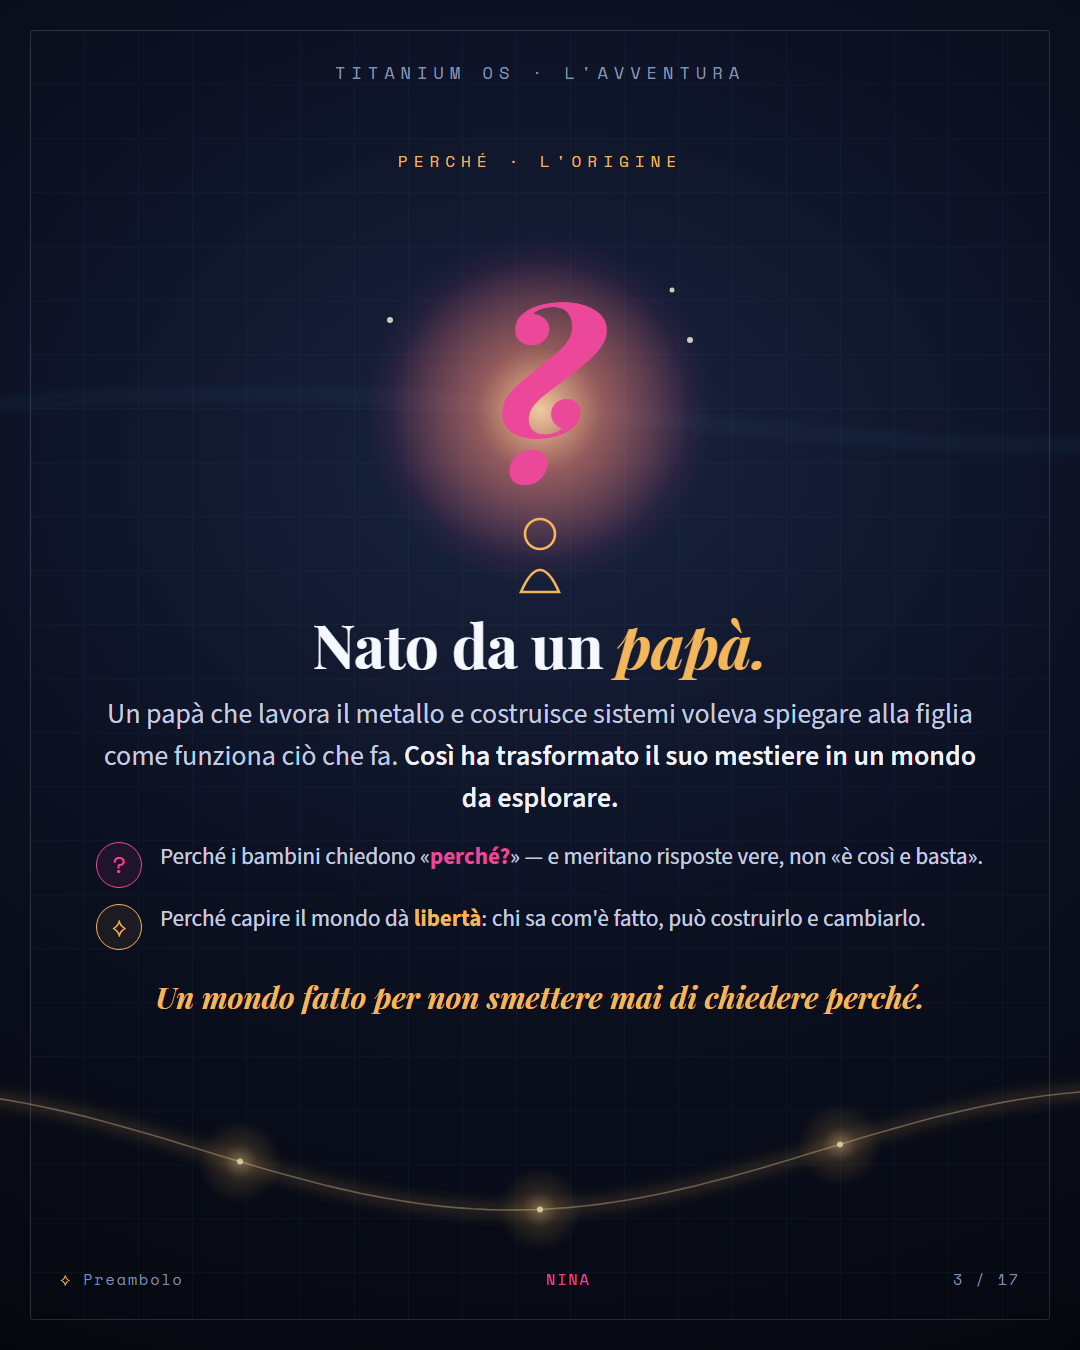
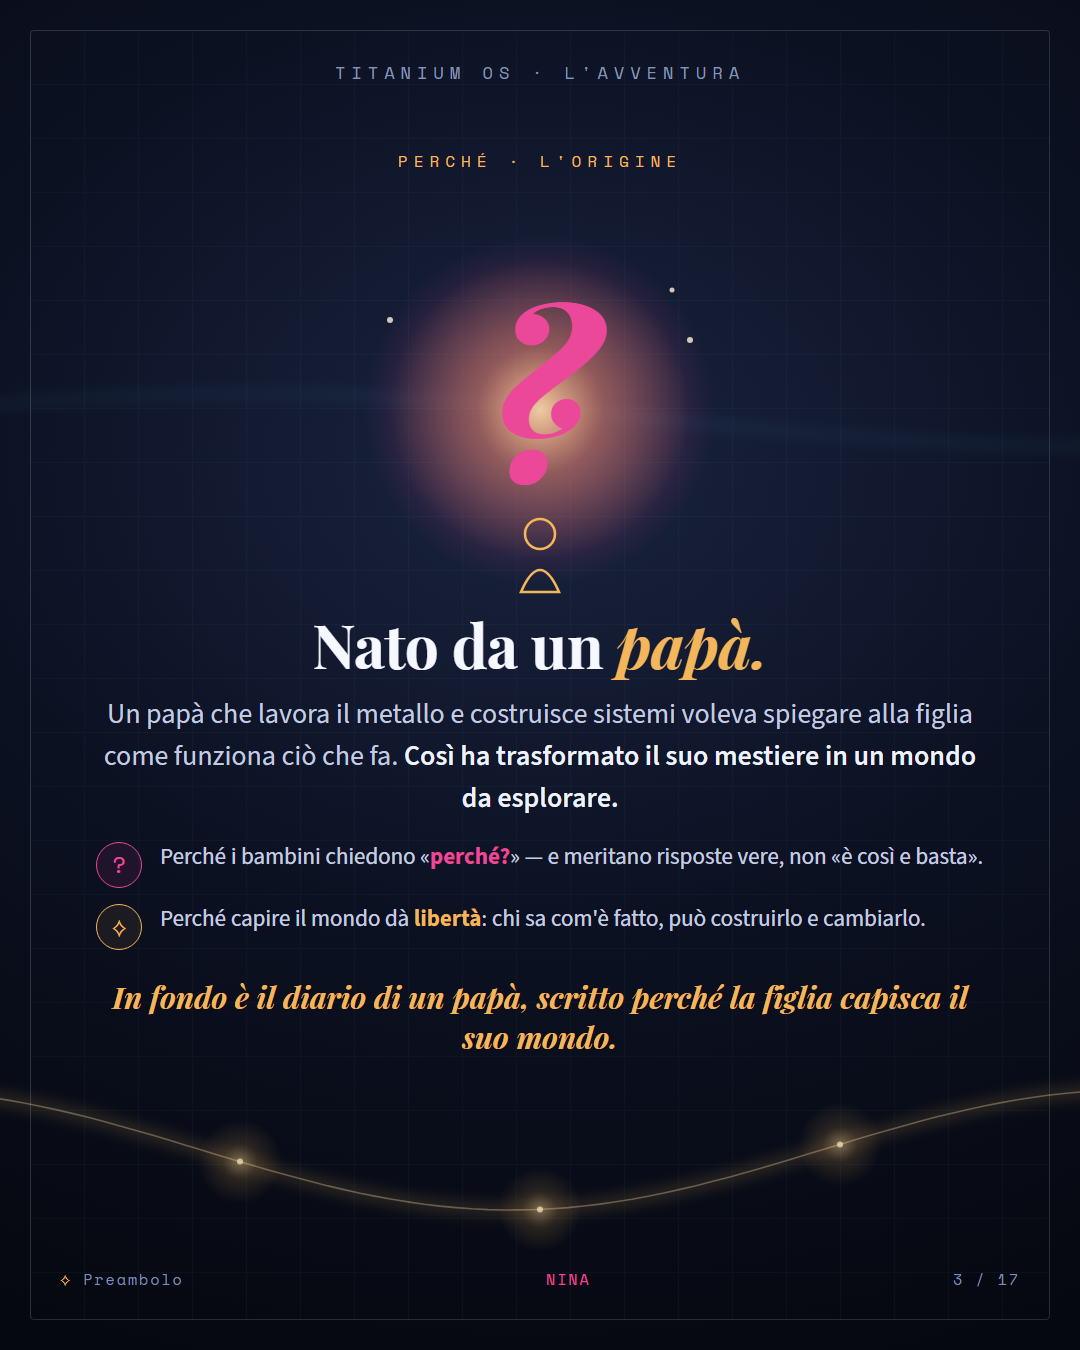
feat(nina): PRE_01 v11 — preambolo allineato alla visione (Mappa Viva, tre fondi, libro vivo, diario)
Slide 11->Mappa Viva (non-lineare/cresce), 13->I tre fondi (fiaba/bottega/vero
= test della sarta), 14->Un libro vivo (cresce da solo), 3->diario-eredita.
HR/commerciale tenuto fuori dal preambolo bimbi (deck strategico).

Changed region(s): [[0.0917, 0.7156, 0.9167, 0.7778]]

diff --git a/CONTENT_ENGINE/DATABASE/MONDO/POSTER/CAROSELLI/PRE_01/_VERSIONI/INDEX.md b/CONTENT_ENGINE/DATABASE/MONDO/POSTER/CAROSELLI/PRE_01/_VERSIONI/INDEX.md
@@ -24,7 +24,8 @@
 | **v7_arricchito-testo** | v6 con **più testo** (intro 2 frasi, punti più pieni, sigilli più evocativi) | onda sfumata su 1-8 | superata da v9/v10 |
 | **v8_fumetto-vignette** | tentativo layout a **vignette/caselle** (stile fumetto) su slide 2 | onda sfumata | **scartata** (Matteo: "no per nulla") |
 | **v9_progetto-12slide** | preambolo **rivisto a 12 slide** che spiega il progetto (Cos'è/Perché/Come funziona/Da dove nasce) | onda sfumata su 1-12 | superata da v10 |
-| **v10_progetto-17slide** | v9 esteso a **17 slide**, linguaggio semplice (+Per chi è, I 4 simboli, Cosa imparerai, Si ripassa, La promessa) | onda sfumata su 1-17 | **ATTUALE** (= `carosello.html`) |
+| **v10_progetto-17slide** | v9 esteso a **17 slide**, linguaggio semplice (+Per chi è, I 4 simboli, Cosa imparerai, Si ripassa, La promessa) | onda sfumata su 1-17 | superata da v11 |
+| **v11_visione-allineata** | v10 allineata alla **VISIONE** (RISPIEGAMI…md): slide 11→Mappa Viva (non-lineare/cresce), 13→I tre fondi (fiaba/bottega/vero), 14→Un libro vivo (cresce da solo), 3→diario-eredità. HR/commerciale lasciato FUORI (deck strategico) | onda sfumata su 1-17 | **ATTUALE** (= `carosello.html`) |
 
 ## Il concetto di "flusso continuo"
 L'onda è calcolata sulla **posizione globale** `x_glob = (n-1)·1080 + x_locale`: essendo una

diff --git a/DA_FARE_FATTO.md b/DA_FARE_FATTO.md
@@ -106,8 +106,13 @@ definire lo stile narrativo, poi propagare.**
 - [✓] **v10 — esteso a 17 slide** (linguaggio semplice/ricco): +Per chi è, +I 4 simboli
   (Atomo/Bit/Giuntura/Pietra), +Cosa imparerai (8 tappe), +Si ripassa (spirale), +La promessa.
   **PROMOSSA a `carosello.html`**; 17 PNG singole `slides/slide_1..17.png`. Versioni v1→v10 in `_VERSIONI/`.
-- [◐] **In attesa**: Matteo manda un FILE da leggere/riflettere → se serve cambiare, si cambia ORA
-  (prima di bloccare le 17). Poi: export Adobe Express (readiness skill).
+- [✓] **Letto il file-visione** (`Desktop/RISPIEGAMI LA TUA VISIONE…md`) → salvato come canone in
+  `MENTE/KNOWLEDGE/NINA_VISIONE_ORGANISMO_NARRATIVO.md` (RAG+Obsidian).
+- [✓] **v11 — preambolo allineato alla VISIONE**: slide 11→**Mappa Viva** (non-lineare, cresce),
+  13→**I tre fondi** (fiaba/bottega/vero = test della sarta), 14→**Un libro vivo** (cresce da solo),
+  3→**diario-eredità**. HR/commerciale lasciato FUORI (→ deck strategico). PNG 3/11/13/14 rifatti.
+- [ ] **Prossimo**: ok di Matteo sulle 4 slide riviste → export Adobe Express (readiness skill).
+  Aperti: onda v5 sfumata vs v4 intreccio; altri caroselli; EP_N2_01 a questo livello.
 
 ---
 
